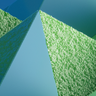
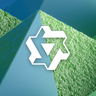
feat(models): 千问 3.8 Max / Flash 贴白色千问标；MiMo Flash 抹掉原图左上的「V2.6」
用户 2026-10-25：「qwen3.8 max 和 3.8 flash 可以不可以像 deepseek 的鲸鱼一样，也贴一个 qwen 的白色的 logo 上去」。

- 千问两枚：仍是模型市场轮播封面那两张（Max 绿草几何体、Flash 彩色羽流），按 512px 重新裁出后正中贴白色千问标，
  标宽约方图的 46%（与 DeepSeek 两枚的鲸鱼同比例）。标取仓库的 vendor-logos/qwen.svg 强制纯白渲染（原图是渐变
  填充、84% 不透明，直接设白色会被渐变盖掉）。下面垫一层柔和投影：Flash 的底是浅粉蓝，纯白标会糊进去。
  Qwen3.8 27B 不贴（用户只点了这两枚）。
- MiMo Flash：封面裁出来的左上角还有官方原图里的「V2.6」版本字样（上一个 commit 说明里写了没抹），这里按周边
  像素扩散抹掉；同一区域的刻度尺框线与 50.0 / -12.0 / 0.0 刻度数字保留（用户此前定过「标尺保留」）。
  MiMo Pro 不动。

Made-with: Orbita

Changed region(s): [[0.25, 0.25, 0.75, 0.75]]

diff --git a/src/renderer/src/features/settings/ModelAvatar.tsx b/src/renderer/src/features/settings/ModelAvatar.tsx
@@ -41,7 +41,8 @@ import { VendorLogo } from "./VendorLogo";
  *   <id>-texture.webp）——把星系、太阳、月亮抠出来缩到方图约三分之一，放在同图取样的星空底上；
  *   月亮在原图里被右缘切掉一截，按左半镜像补成整轮（2026-10-25 用户：「月亮和太阳的占比放小一点」）；
  * - qwen3.8-max / qwen3.8-flash：千问 AI 平台模型市场（qianwenai.com/models）顶部轮播的两张封面
- *   （绿草几何体、彩色羽流）裁方；
+ *   （绿草几何体、彩色羽流）裁方，正中贴白色千问标（与 DeepSeek 两枚贴鲸鱼同一做法：标宽约方图的 46%，
+ *   下方一层柔和投影——Flash 的底是浅色，纯白标会糊进去）；
  * - qwen3.8-27b：千问公众号「Qwen3.8-27B 开源」正文头图（2048×1152，推文封面是 2.35:1 裁过的、会切掉设备上下沿），
  *   裁出完整的三台设备与地平线（避开右边的标题字）；
  * - minimax-m3.1-flash：MiniMax 公众号「M3.1 Flash 开源」封面，背景是虚化的花，把压在上面的白字按周边
